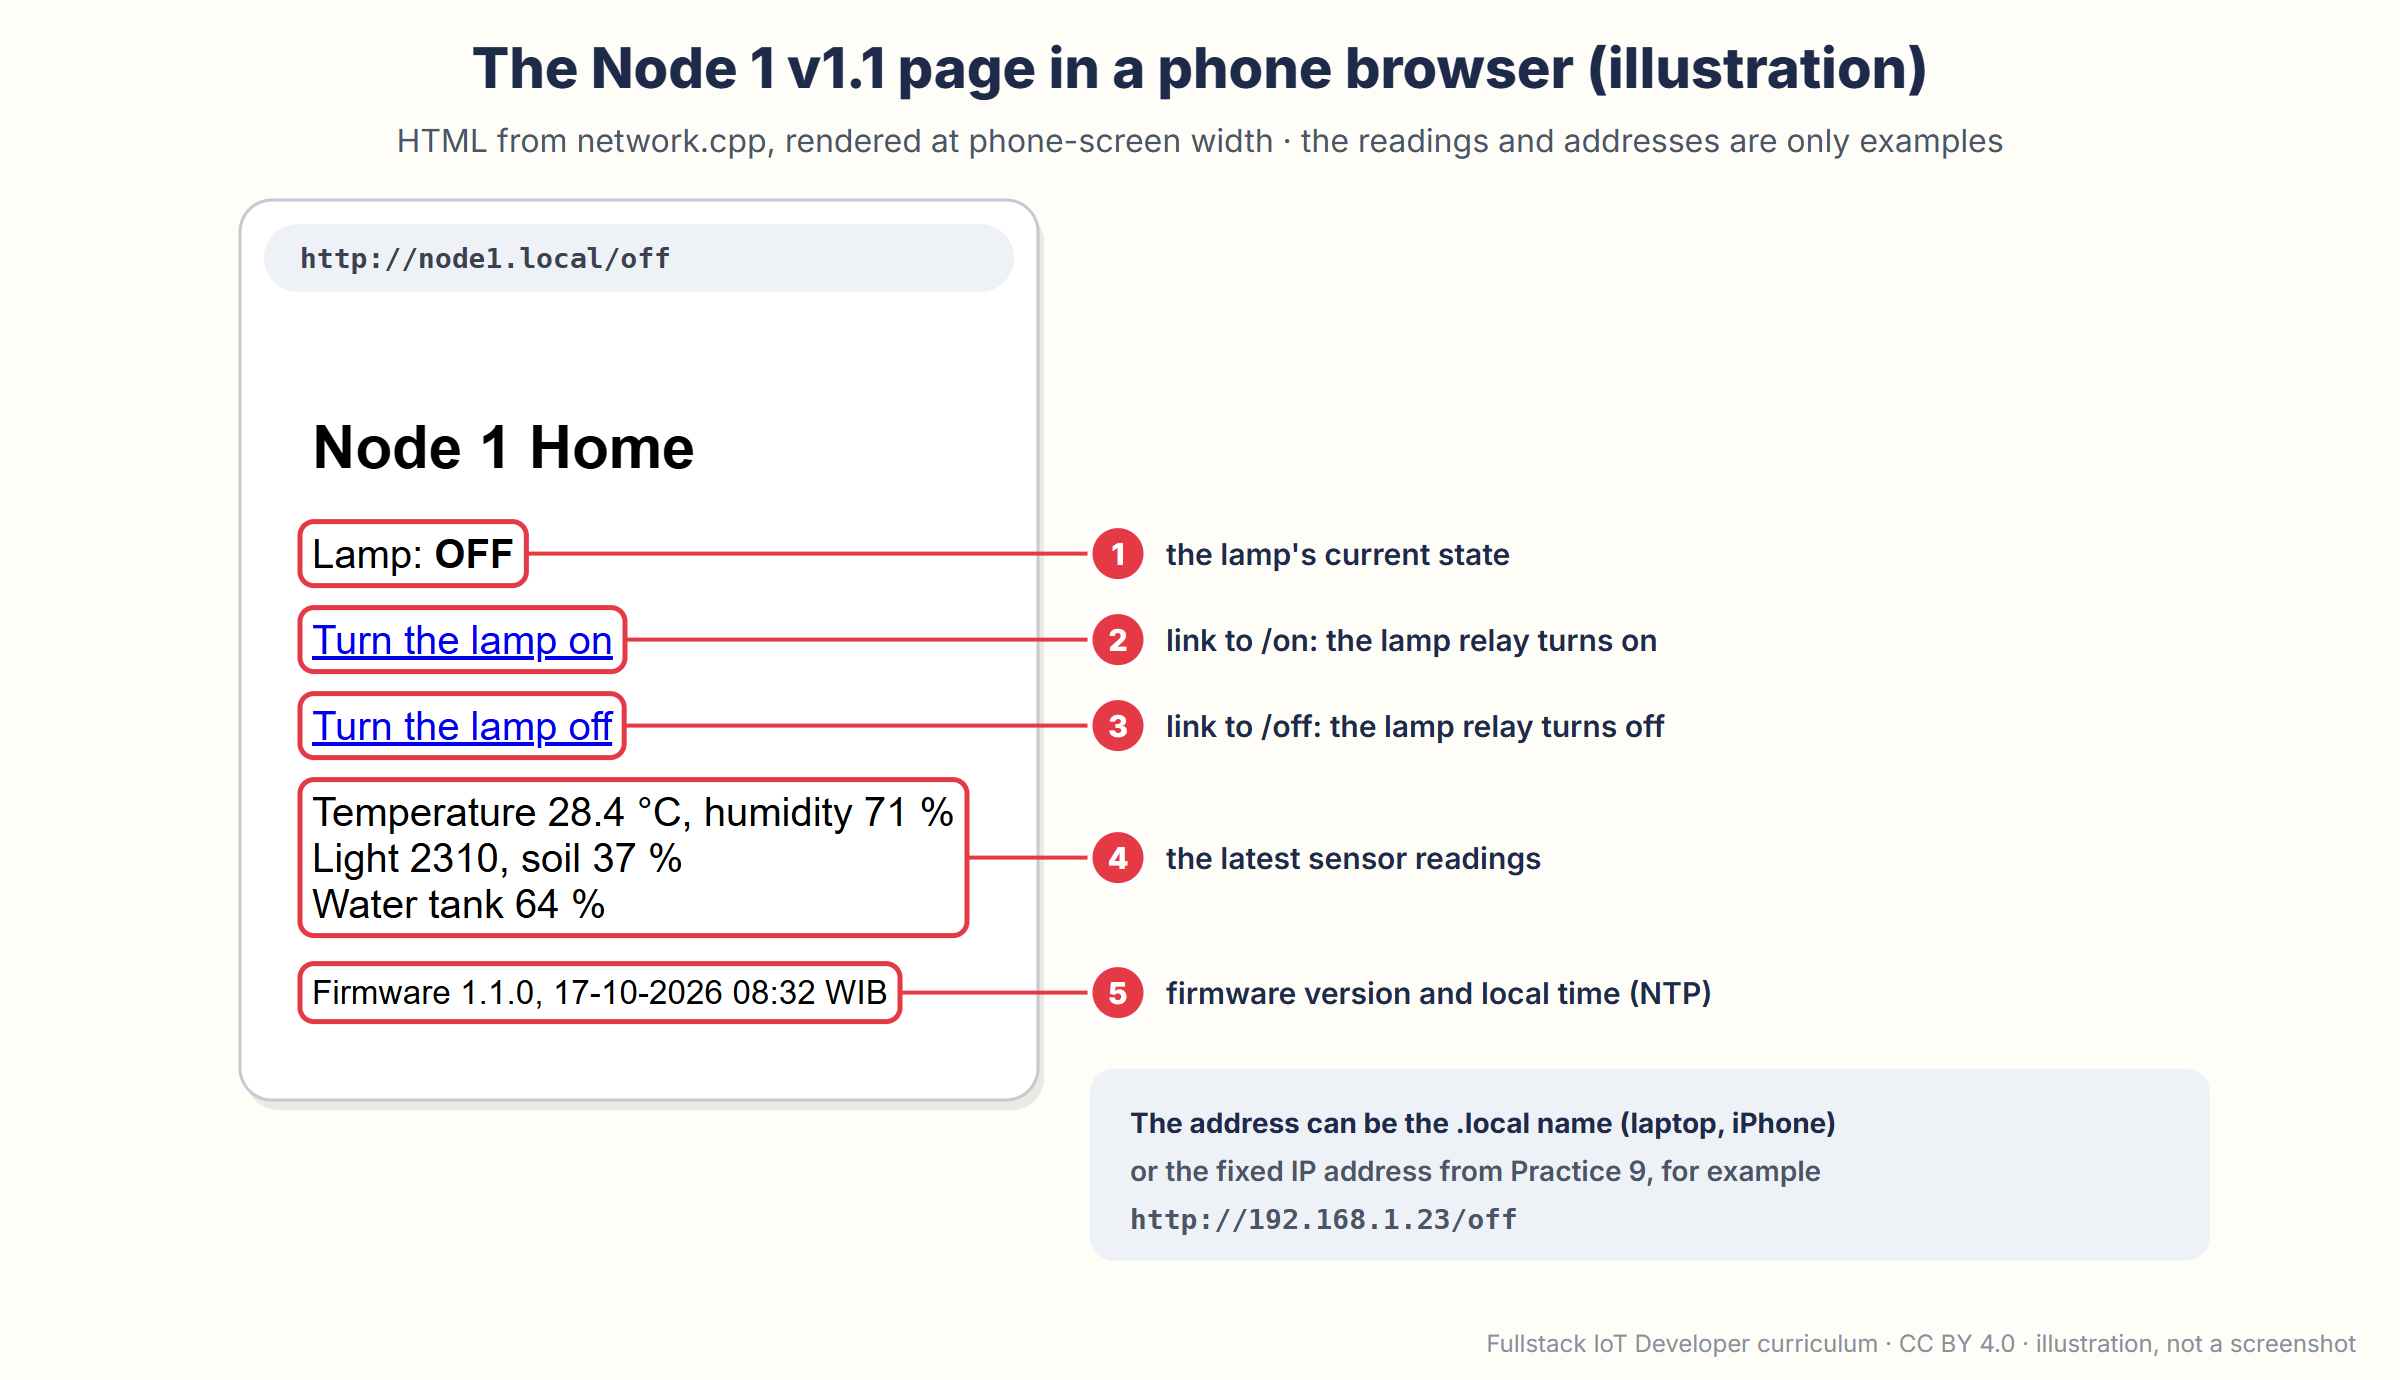
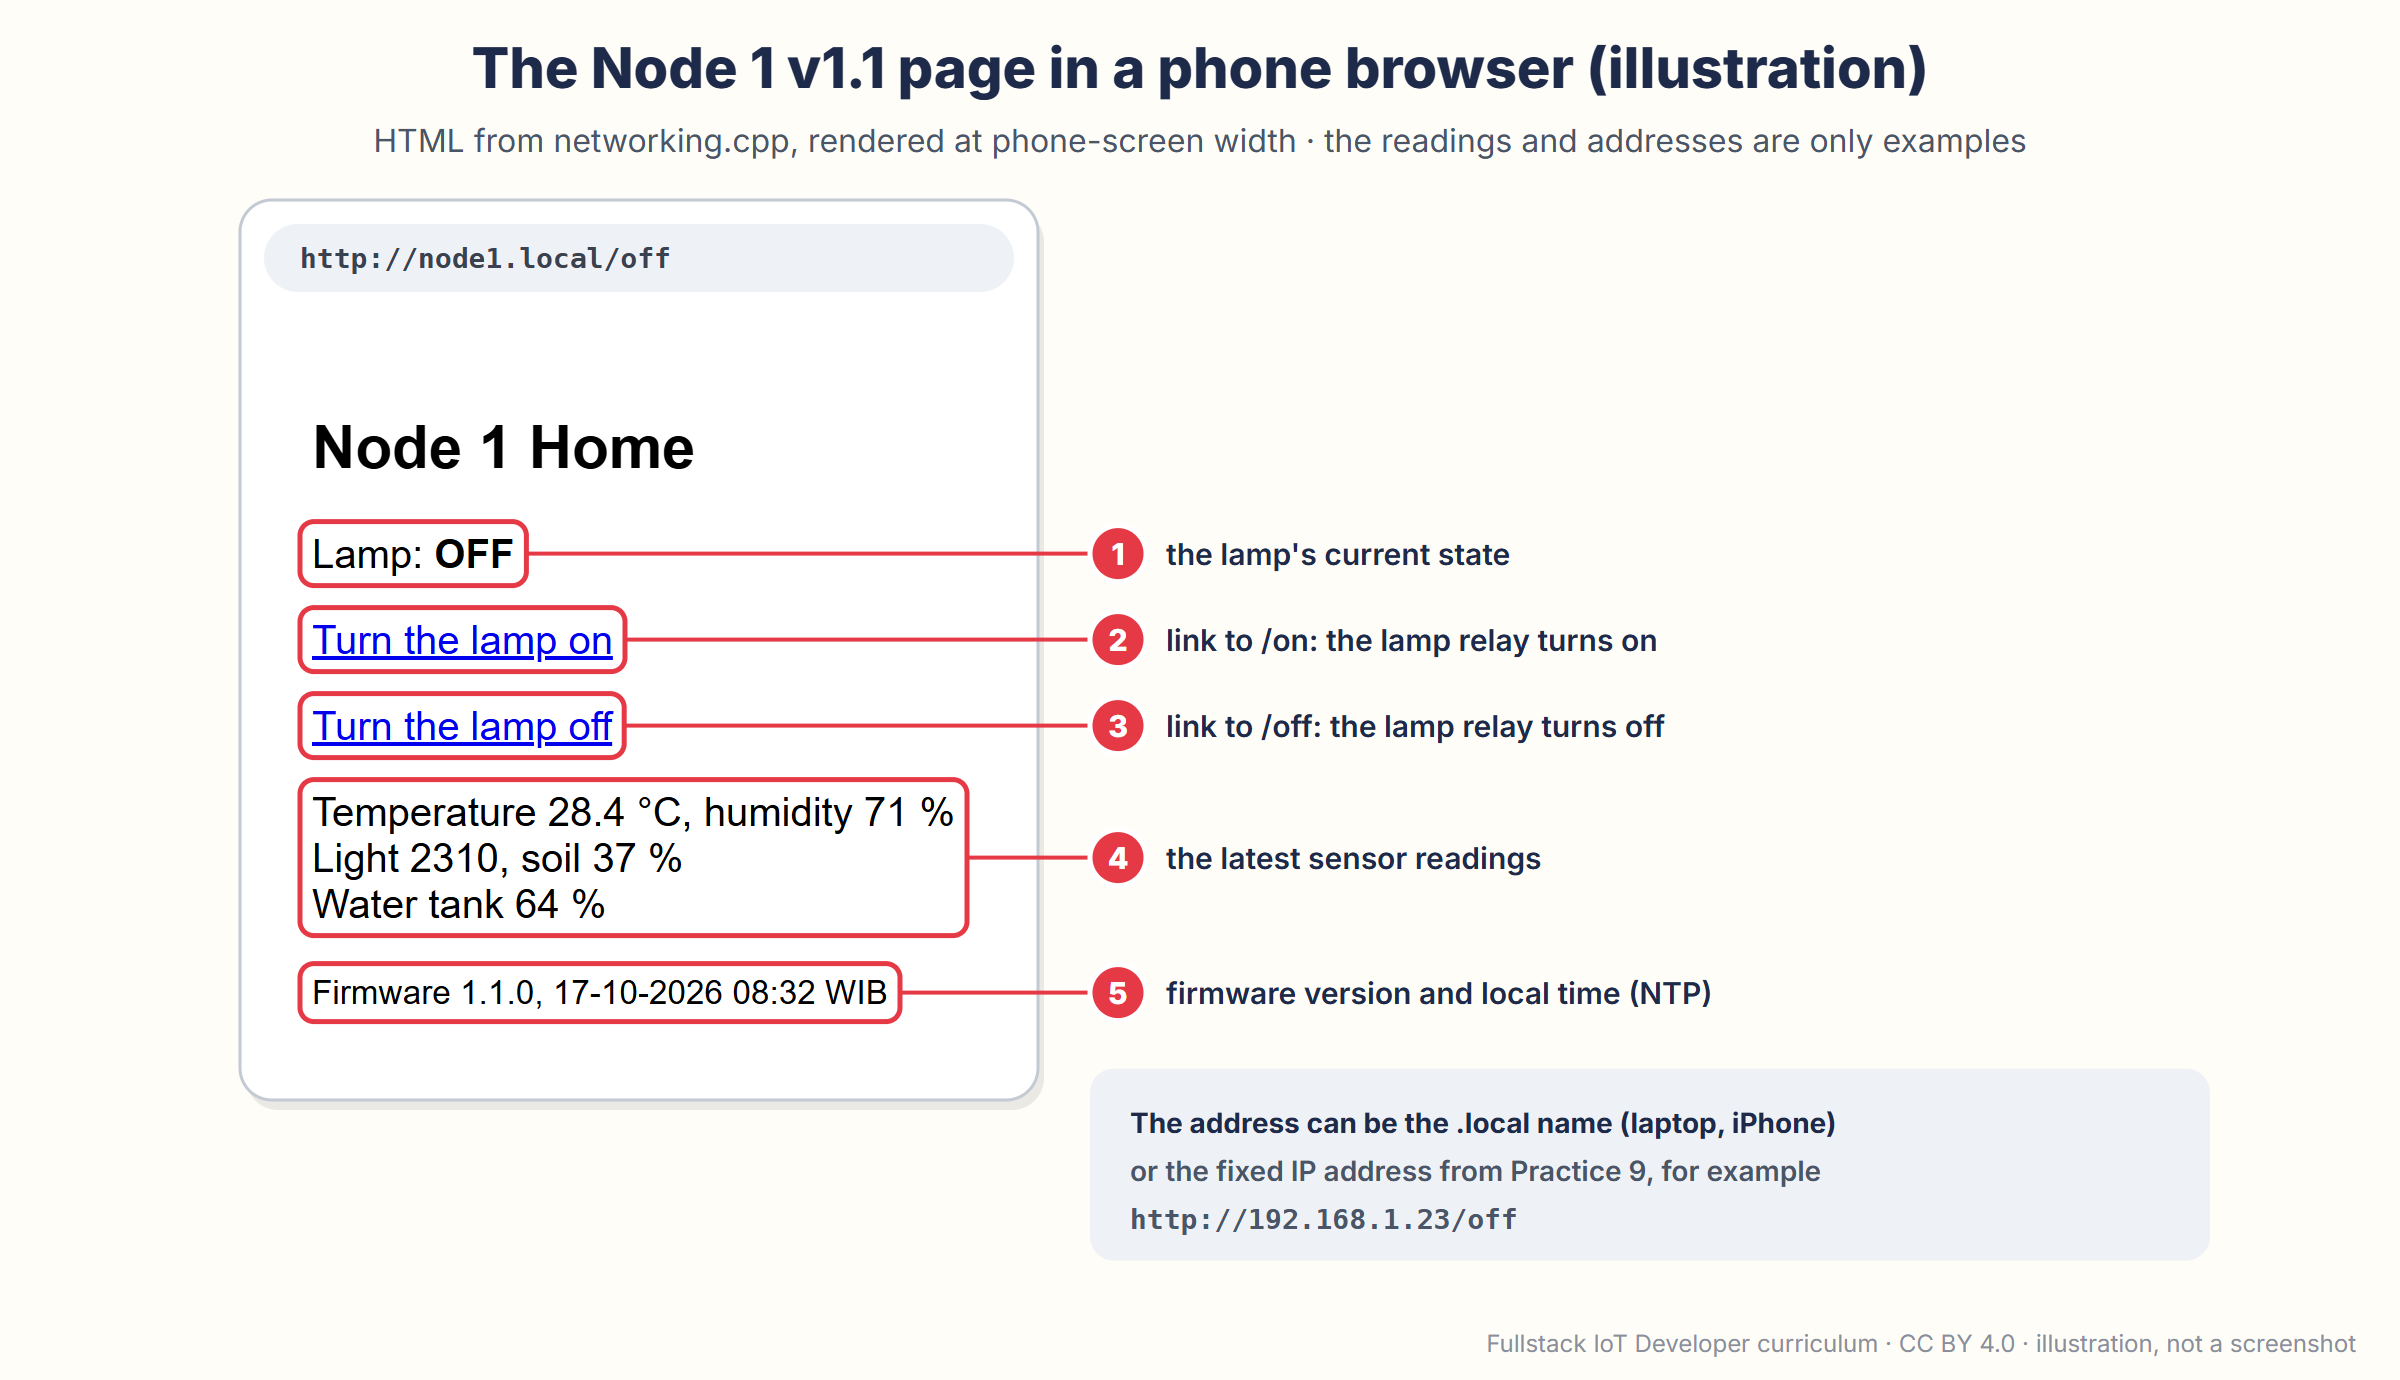
fix(en): ganti nama network.h/.cpp menjadi networking.h/.cpp di Node 1 edisi Inggris
Di Windows dan macOS (sistem file yang tidak membedakan huruf besar-kecil),
file network.h milik Node 1 menjawab #include "Network.h" dari library WiFi
paket esp32 3.x, sehingga Node 1 versi Inggris gagal dikompilasi sejak
Modul 10 ('network_event_handle_t' does not name a type). Wokwi (Linux)
tidak terdampak, jadi masalah ini tidak terlihat di uji sebelumnya.

- Kode Modul 10, 11, 12 dan firmware proyek: file diganti nama, baris
  #include dan komentar disesuaikan (git mv, isi lain tidak berubah).
- README Modul 10-12, SOURCES.md, SYLLABUS: nama file diperbarui; catatan
  "Renamed on 19 October 2026" di Modul 10 (cara Rename di Arduino IDE dan
  Wokwi), rujukan singkat di Modul 11 dan 12.
- Gambar node1-v11-file-map, node1-v12-file-map, phone-node1 dirender ulang.
- Uji: arduino-cli + esp32 3.3.12 di Windows, ESP32 Dev Module (Minimal
  SPIFFS, DIO): v1.1.0 1.306.567 byte, v1.2.0 dan v1.2.1 1.174.728 byte,
  semuanya lolos (sebelumnya gagal).

Changed region(s): [[0.1562, 0.0935, 0.8438, 0.1246]]

diff --git a/en/phase-2-connectivity/module-11-mqtt-and-data-contract/code/node-1-home/networking.cpp b/en/phase-2-connectivity/module-11-mqtt-and-data-contract/code/node-1-home/networking.cpp
@@ -1,4 +1,4 @@
-// network.cpp - the code of the network module. Its functions are listed in network.h.
+// networking.cpp - the code of the network module. Its functions are listed in networking.h.
 #include <Arduino.h>
 #include <esp_mac.h>  // esp_read_mac(): the MAC address straight from the chip
 #include <WiFi.h>
@@ -13,7 +13,7 @@
 #include "sensors.h"
 #include "actuators.h"
 #include "display.h"
-#include "network.h"
+#include "networking.h"
 
 #ifndef MQTT_QOS1  // only PubSubClient3 has this name
 #error "The old PubSubClient (2.8) is in use. Remove it in the Library Manager, then install PubSubClient3 version 3.3.2."
@@ -379,7 +379,7 @@ static void tryConnectBroker() {
   int code = mqtt.state();
   if (code != lastFailCode) {  // the same failure isn't logged every 5 seconds
     lastFailCode = code;
-    logError("MQTT failed to connect to the broker after %lu ms: %s (code %d). Is the broker on the gateway running?",
+    logError("MQTT failed to connect to the broker after %lu ms: %s (code %d). Is the broker on the laptop running?",
              millis() - start, mqttStateName(code), code);
   }
 }

diff --git a/en/phase-2-connectivity/module-12-raspberry-pi-and-linux/code/node-1-home/networking.cpp b/en/phase-2-connectivity/module-12-raspberry-pi-and-linux/code/node-1-home/networking.cpp
@@ -1,4 +1,4 @@
-// network.cpp - the code of the network module. Its functions are listed in network.h.
+// networking.cpp - the code of the network module. Its functions are listed in networking.h.
 #include <Arduino.h>
 #include <esp_mac.h>  // esp_read_mac(): the MAC address straight from the chip
 #include <WiFi.h>
@@ -13,7 +13,7 @@
 #include "sensors.h"
 #include "actuators.h"
 #include "display.h"
-#include "network.h"
+#include "networking.h"
 
 #ifndef MQTT_QOS1  // only PubSubClient3 has this name
 #error "The old PubSubClient (2.8) is in use. Remove it in the Library Manager, then install PubSubClient3 version 3.3.2."
@@ -379,7 +379,7 @@ static void tryConnectBroker() {
   int code = mqtt.state();
   if (code != lastFailCode) {  // the same failure isn't logged every 5 seconds
     lastFailCode = code;
-    logError("MQTT failed to connect to the broker after %lu ms: %s (code %d). Is the broker on the laptop running?",
+    logError("MQTT failed to connect to the broker after %lu ms: %s (code %d). Is the broker on the gateway running?",
              millis() - start, mqttStateName(code), code);
   }
 }

diff --git a/en/phase-2-connectivity/module-10-wifi-and-http/code/node-1-home/networking.cpp b/en/phase-2-connectivity/module-10-wifi-and-http/code/node-1-home/networking.cpp
@@ -1,4 +1,4 @@
-// network.cpp - the code of the network module. Its functions are listed in network.h.
+// networking.cpp - the code of the network module. Its functions are listed in networking.h.
 #include <Arduino.h>
 #include <esp_mac.h>  // esp_read_mac(): the MAC address straight from the chip
 #include <WiFi.h>
@@ -13,7 +13,7 @@
 #include "sensors.h"
 #include "actuators.h"
 #include "display.h"
-#include "network.h"
+#include "networking.h"
 
 const unsigned long NO_ATTEMPT_TIMEOUT = 60000;  // guard: 60 seconds without a connection attempt = tell it to try again
 const int HTTP_TIMEOUT = 1500;                   // milliseconds; connecting + waiting for the reply stays far below 5 seconds

diff --git a/en/mini-smart-home/firmware/node-1-home/networking.cpp b/en/mini-smart-home/firmware/node-1-home/networking.cpp
@@ -1,4 +1,4 @@
-// network.cpp - the code of the network module. Its functions are listed in network.h.
+// networking.cpp - the code of the network module. Its functions are listed in networking.h.
 #include <Arduino.h>
 #include <esp_mac.h>  // esp_read_mac(): the MAC address straight from the chip
 #include <WiFi.h>
@@ -13,7 +13,7 @@
 #include "sensors.h"
 #include "actuators.h"
 #include "display.h"
-#include "network.h"
+#include "networking.h"
 
 #ifndef MQTT_QOS1  // only PubSubClient3 has this name
 #error "The old PubSubClient (2.8) is in use. Remove it in the Library Manager, then install PubSubClient3 version 3.3.2."

diff --git a/en/mini-smart-home/firmware/node-1-home/networking.h b/en/mini-smart-home/firmware/node-1-home/networking.h
@@ -1,4 +1,4 @@
-// network.h - Node 1 on the home network: WiFi and internet time (Module 10), then MQTT (Module 11)
+// networking.h - Node 1 on the home network: WiFi and internet time (Module 10), then MQTT (Module 11)
 // The principle: the WiFi and the broker may drop, Node 1 must not stop. No function here waits
 // for long, except the WiFi portal, which is only opened in setup() before the watchdog is watching.
 // Every topic and its message content follow the data contract (Syllabus Appendix A, DATA-CONTRACT.md).

diff --git a/en/phase-2-connectivity/module-11-mqtt-and-data-contract/code/node-1-home/networking.h b/en/phase-2-connectivity/module-11-mqtt-and-data-contract/code/node-1-home/networking.h
@@ -1,4 +1,4 @@
-// network.h - Node 1 on the home network: WiFi and internet time (Module 10), then MQTT (Module 11)
+// networking.h - Node 1 on the home network: WiFi and internet time (Module 10), then MQTT (Module 11)
 // The principle: the WiFi and the broker may drop, Node 1 must not stop. No function here waits
 // for long, except the WiFi portal, which is only opened in setup() before the watchdog is watching.
 // Every topic and its message content follow the data contract (Syllabus Appendix A, DATA-CONTRACT.md).

diff --git a/en/phase-2-connectivity/module-12-raspberry-pi-and-linux/code/node-1-home/networking.h b/en/phase-2-connectivity/module-12-raspberry-pi-and-linux/code/node-1-home/networking.h
@@ -1,4 +1,4 @@
-// network.h - Node 1 on the home network: WiFi and internet time (Module 10), then MQTT (Module 11)
+// networking.h - Node 1 on the home network: WiFi and internet time (Module 10), then MQTT (Module 11)
 // The principle: the WiFi and the broker may drop, Node 1 must not stop. No function here waits
 // for long, except the WiFi portal, which is only opened in setup() before the watchdog is watching.
 // Every topic and its message content follow the data contract (Syllabus Appendix A, DATA-CONTRACT.md).

diff --git a/en/phase-2-connectivity/module-10-wifi-and-http/code/node-1-home/networking.h b/en/phase-2-connectivity/module-10-wifi-and-http/code/node-1-home/networking.h
@@ -1,4 +1,4 @@
-// network.h - Node 1 on the home network: WiFi, internet time, sending readings, and the web server (Module 10)
+// networking.h - Node 1 on the home network: WiFi, internet time, sending readings, and the web server (Module 10)
 // The principle: the WiFi may drop, Node 1 must not stop. No function here waits for long,
 // except the WiFi portal, which is only opened in setup() before the watchdog is watching.
 // Module 11 replaces the HTTP sending and the web server with MQTT.

diff --git a/en/mini-smart-home/firmware/node-1-home/display.cpp b/en/mini-smart-home/firmware/node-1-home/display.cpp
@@ -7,7 +7,7 @@
 #include "logger.h"
 #include "system.h"
 #include "settings.h"
-#include "network.h"  // Module 10: networkText()
+#include "networking.h"  // Module 10: networkText()
 #include "display.h"
 
 const byte DISPLAY_ADDRESS = 0x3C;             // the OLED display's address on the I2C bus

diff --git a/en/phase-2-connectivity/module-10-wifi-and-http/code/node-1-home/display.cpp b/en/phase-2-connectivity/module-10-wifi-and-http/code/node-1-home/display.cpp
@@ -7,7 +7,7 @@
 #include "logger.h"
 #include "system.h"
 #include "settings.h"
-#include "network.h"  // Module 10: networkText()
+#include "networking.h"  // Module 10: networkText()
 #include "display.h"
 
 const byte DISPLAY_ADDRESS = 0x3C;             // the OLED display's address on the I2C bus

diff --git a/en/phase-2-connectivity/module-11-mqtt-and-data-contract/code/node-1-home/display.cpp b/en/phase-2-connectivity/module-11-mqtt-and-data-contract/code/node-1-home/display.cpp
@@ -7,7 +7,7 @@
 #include "logger.h"
 #include "system.h"
 #include "settings.h"
-#include "network.h"  // Module 10: networkText()
+#include "networking.h"  // Module 10: networkText()
 #include "display.h"
 
 const byte DISPLAY_ADDRESS = 0x3C;             // the OLED display's address on the I2C bus

diff --git a/en/phase-2-connectivity/module-12-raspberry-pi-and-linux/code/node-1-home/display.cpp b/en/phase-2-connectivity/module-12-raspberry-pi-and-linux/code/node-1-home/display.cpp
@@ -7,7 +7,7 @@
 #include "logger.h"
 #include "system.h"
 #include "settings.h"
-#include "network.h"  // Module 10: networkText()
+#include "networking.h"  // Module 10: networkText()
 #include "display.h"
 
 const byte DISPLAY_ADDRESS = 0x3C;             // the OLED display's address on the I2C bus
